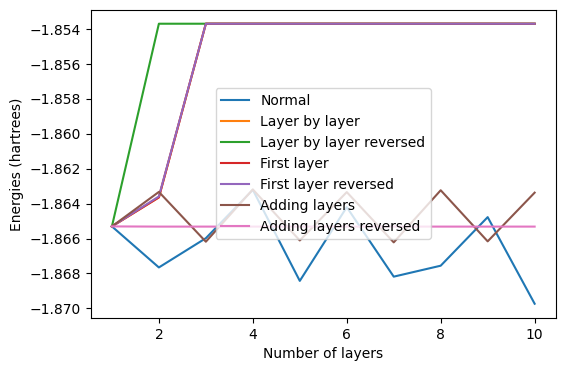
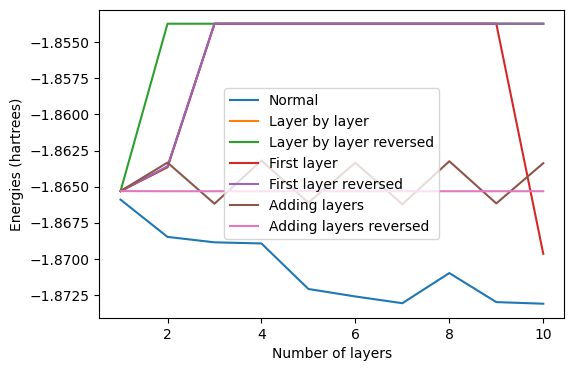
data change

diff --git a/src/mitigation.py b/src/mitigation.py
@@ -44,7 +44,7 @@ def VQE_minimization(ansatz, observable: SparsePauliOp, initial_guess: str = "ze
     cost_history_dict = {"iters": 0, "cost_history": []}
 
     # Optimization in layers
-    res = minimize(cost_func, initial_param_vector, args=(ansatz, observable, estimator), method=minimizer)
+    res = minimize(cost_func, initial_param_vector, args=(ansatz, observable, estimator), method=minimizer, options={'maxiter': 10000})
     return cost_history_dict
 
 
@@ -105,13 +105,13 @@ def VQE_minimization_layer_training(ansatz, observable: SparsePauliOp, num_layer
         start = layer * params_per_layer
         end = start + params_per_layer
         initial_param_layer = param_vector[start:end]
-        res = minimize(cost_func, initial_param_layer, args=(ansatz, observable, param_vector, start, end, estimator), method=minimizer)
+        res = minimize(cost_func, initial_param_layer, args=(ansatz, observable, param_vector, start, end, estimator), method=minimizer, options={'maxiter': 1000})
         param_vector[start:end]=res.x
 
     if range_layers != num_layers:
         if direction=="forward":
             next_param_layer=param_vector[end:]
-            res = minimize(cost_func, next_param_layer, args=(ansatz, observable, param_vector, end, len(param_vector), estimator), method=minimizer)
+            res = minimize(cost_func, next_param_layer, args=(ansatz, observable, param_vector, end, len(param_vector), estimator), method=minimizer, options={'maxiter': 10000-cost_history_dict["iters"]})
             param_vector[end:]=res.x
         elif direction == "backward":
             next_param_layer = param_vector[:start]
@@ -178,13 +178,13 @@ def VQE_minimization_layer_adding_training(ansatz_function, observable: SparsePa
             for layer in range(2, num_layers+1):
                 ansatz, num_params=ansatz_function(num_qubits,layer)
                 param_layer=np.zeros(num_params-len(param_vector))
-                res = minimize(cost_func, param_layer, args=(ansatz, observable, param_vector, estimator), method=minimizer)
+                res = minimize(cost_func, param_layer, args=(ansatz, observable, param_vector, estimator), method=minimizer, options={'maxiter': 1000})
                 param_vector=np.concatenate((param_vector, res.x))
         elif direction == "backward":
             for layer in range(2, num_layers+1):
                 ansatz, num_params=ansatz_function(num_qubits,layer)
                 param_layer=np.zeros(num_params-len(param_vector))
-                res = minimize(cost_func_inv, param_layer, args=(ansatz, observable, param_vector, estimator), method=minimizer)
+                res = minimize(cost_func_inv, param_layer, args=(ansatz, observable, param_vector, estimator), method=minimizer, options={'maxiter': 1000})
                 param_vector=np.concatenate((res.x, param_vector))
         else:
             raise ValueError("El parámetro 'direction' debe ser 'forward' o 'backward'.")
